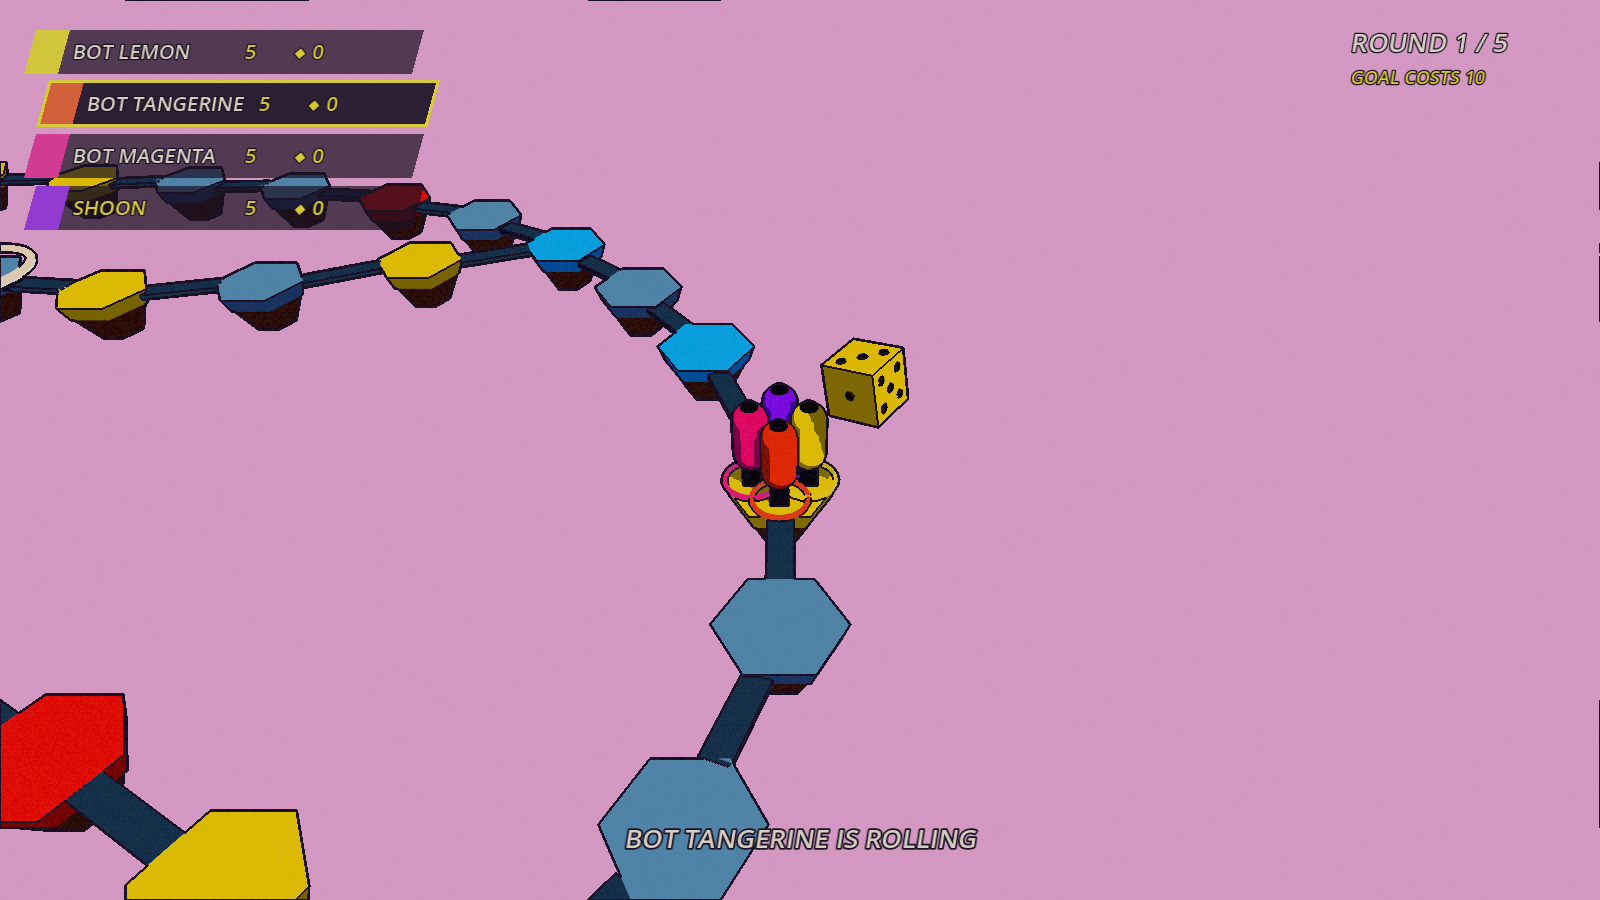
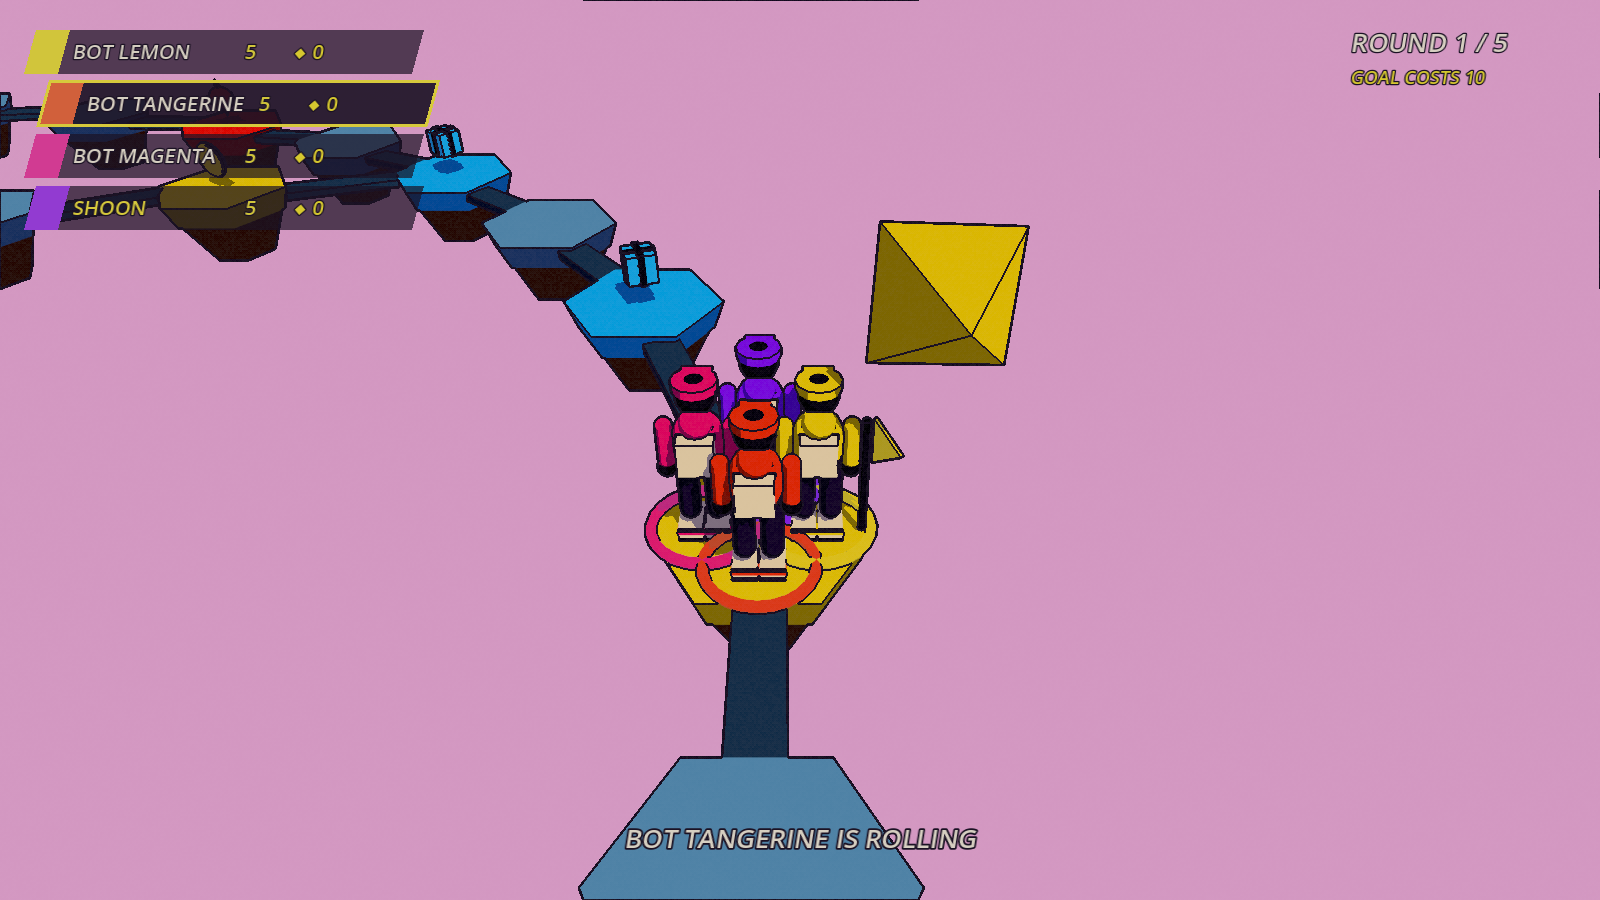
Eight-sided die; 3D labels rendered in the opaque pass so they show under the outline post quad
- rules: rolls 1..dice_sides (board.json: 8); the roll event carries the raw
  roll and the TURBO bonus; HUD shows "5 +3"
- BoardDice: an octahedron (SurfaceTool) with ink numbers, opposite faces
  sum to 9, lands to the camera's right with the top number reading upright;
  test_d8_faces checks normals, opposites and roll-up rotations
- Label3D under the post quad never rendered (pawn names, "?" sign, floating
  coin labels, arena name tags): alpha-cut labels, no no_depth_test
- HUD roll number raised clear of the pawn's name tag; items test reads the
  roll event instead of relying on a fork pause

Changed region(s): [[0.0, 0.0933, 0.6562, 1.0], [0.0, 0.7467, 0.2188, 1.0]]

diff --git a/DECISIONS.md b/DECISIONS.md
@@ -123,3 +123,5 @@ Append-only. One line per assumption: date, the decision, the reason. Newest at 
 - 2026-09-18 — Other players carry a name label over the head (hidden while down) and the figure shows which weapon they hold: a cream long rifle with a scope in slot 0, a short carbine in the player's colour otherwise, from the replicated weapon slot. Reading who is who and who has the sniper matters more in a party lobby than in a ranked shooter.
 - 2026-09-18 — Board camera pulled in on the active player (Sean: "more zoomed in on whoever's turn it is, like Pummel Party"): offset (0, 6.2, 6.8) looking at the pawn's chest, about 9 m out at 42° down, was (0, 12, 13.5). The fork framing still centres between the two options; `--board_overview` keeps the whole-board shot.
 - 2026-09-18 — The board camera also orbits behind the moving pawn along its heading (eased at ≤ 100°/s) and follows tighter during hops, then at a fork stands behind the pawn looking down the middle of the two paths so LEFT and RIGHT are literally left and right on screen. With the close framing the pawn had been running to the frame edge on turns toward the camera.
+- 2026-09-18 — Eight-sided die (Sean): rolls are 1–8 (`board.json` `dice_sides`, the rules read it), and the 3D die is an octahedron built with SurfaceTool (vertex radius 0.8, rests on a face at 0.46 m) with ink numbers on the faces, opposite faces summing to 9 like a real d8. It lands to the camera's right of the pawn with the number reading upright from the camera; TURBO shows as "5 +3" on the HUD while the die shows the raw 5. A test checks the eight face normals are distinct, opposite pairs sum to 9 and each face's roll-up rotation puts it on top. Average move is now 4.5 spaces on a 65-space loop.
+- 2026-09-18 — Every `Label3D` under the outline post quad was invisible (pawn names, the "?" sign, floating coin labels, arena name tags, and then the die numbers): the quad samples `hint_screen_texture`, which Godot captures after the opaque pass, and overwrites transparent geometry drawn before it in the transparent pass. Labels now render alpha-cut (`ALPHA_CUT_DISCARD`, opaque pass) so they sit in the screen texture and get the ink pass like everything else. The results podium's labels live in a SubViewport without the quad and were fine, which is why the bug hid.

diff --git a/STATUS.md b/STATUS.md
@@ -258,6 +258,14 @@ Board camera (Sean: "more zoomed in on whoever's turn it is, like Pummel Party")
 middle of both paths, so LEFT and RIGHT are left and right on screen; the fork buttons moved
 out to the sides. `board_turn.png`, `board_hop.png`, `board_fork.png`.
 
+Eight-sided die (Sean): rolls 1–8 from `board.json` `dice_sides`, an octahedron with ink
+numbers (opposite faces sum to 9) that lands to the camera's right with the number reading
+upright; TURBO shows as "5 +3". Found while doing it: every `Label3D` in a post-processed scene
+(pawn names, the "?" event sign, floating +3 labels, arena name tags, the die numbers) had
+never rendered, because the outline post quad samples the screen texture from the opaque pass
+and paints over transparent objects drawn before it. Labels now use alpha-cut (opaque pass)
+and get inked with everything else. `board_dice_landed.png`, `board_turn.png`.
+
 ### Bugs found and fixed today (all measured before and after)
 
 1. Client's view of remote players lagged whole tick loops → 25 % hit confirmation. netfox
